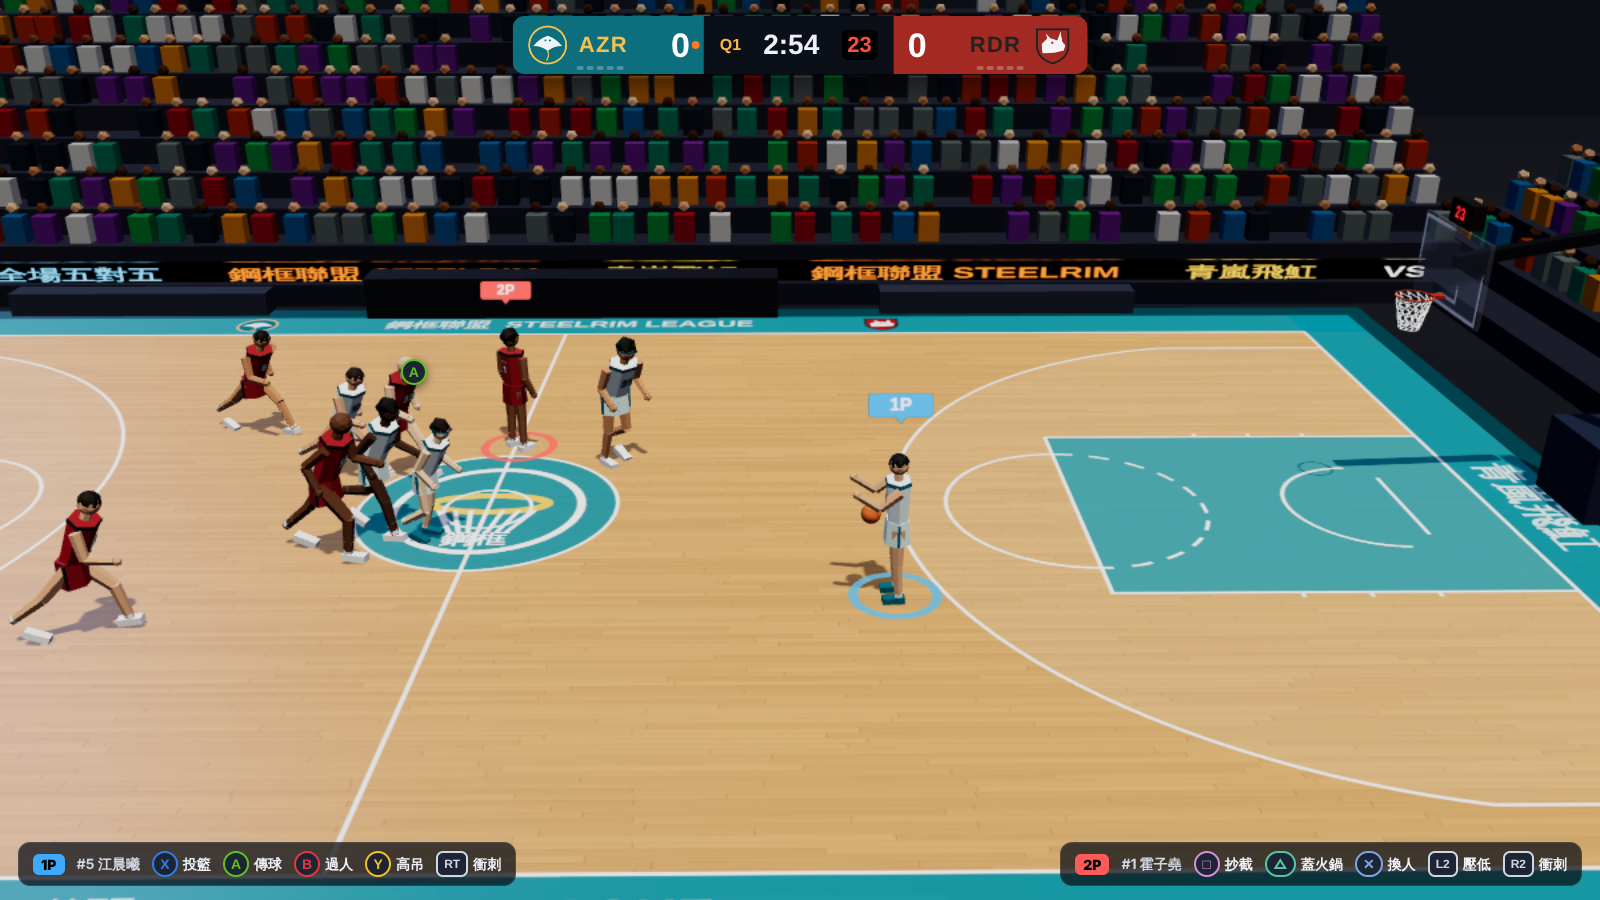
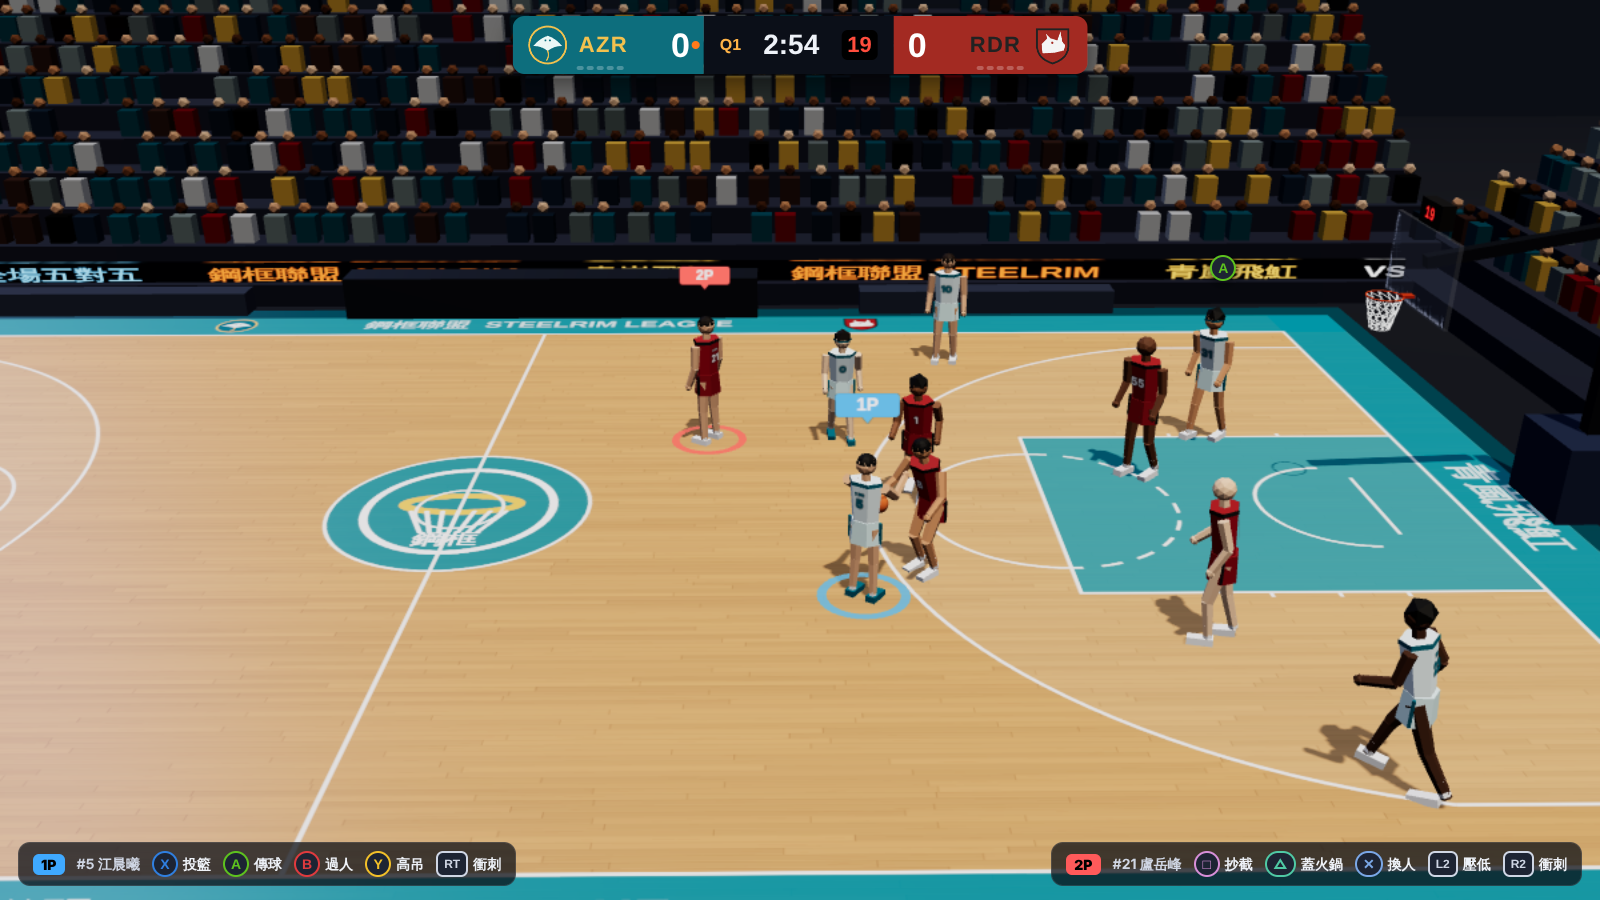
hoops: control tests, shot feedback, nameplates, menu music, test hardening
- node tests for human input flows (timed jump shot, drive layup,
  directional pass, steal, switch, call for ball)
- HUD: make-probability and contest level after each player shot,
  ball-handler nameplate
- synthesized menu music loop (toggleable), demo game no longer plays SFX
- team-colored crowd, CPU-only games auto-continue breaks
- e2e: robust steal check, monitor installed after match start,
  break/results screenshots from real play

Claude-Session: https://claude.ai/code/session_012EswKGQFiWNGuU3kjjfaxu

diff --git a/hoops/src/app.js b/hoops/src/app.js
@@ -9,7 +9,7 @@ import { HUD } from './ui/hud.js';
 import * as S from './ui/screens.js';
 import { emptyInput } from './sim/control.js';
 
-const DEFAULTS = { home: 'owls', away: 'rhinos', difficulty: 'normal', quarterMinutes: 3, autoSub: true, camera: 'broadcast', volume: 0.8 };
+const DEFAULTS = { home: 'owls', away: 'rhinos', difficulty: 'normal', quarterMinutes: 3, autoSub: true, camera: 'broadcast', volume: 0.8, music: true };
 
 export class App {
   constructor() {
@@ -38,7 +38,14 @@ export class App {
     this.errors = [];
 
     this.input.on((type, dev) => this.onDevice(type, dev));
-    const unlock = () => this.audio.unlock();
+    const unlock = () => {
+      const first = !this.audio.ctx;
+      this.audio.unlock();
+      if (first && this.audio.ctx) {
+        this.audio.setCrowd(this.demo ? 0.18 : 0.5);
+        this.updateMusic();
+      }
+    };
     window.addEventListener('pointerdown', unlock);
     window.addEventListener('keydown', unlock);
     this.input.on((type) => { if (type === 'activity') unlock(); });
@@ -112,6 +119,14 @@ export class App {
     }
     this.hud.show(!!this.game && !this.demo && !['title', 'menu', 'teams', 'controllers', 'settings'].includes(name));
     document.body.classList.toggle('menu-open', !!this.screen);
+    this.updateMusic();
+  }
+
+  // 選單播音樂，比賽中不播
+  updateMusic() {
+    const inMenu = this.demo && ['title', 'menu', 'teams', 'controllers', 'settings', 'help'].includes(this.screenName);
+    if (inMenu && this.settings.music) this.audio.startMusic();
+    else this.audio.stopMusic();
   }
 
   closeScreens() {
@@ -157,7 +172,7 @@ export class App {
     humans.forEach((h, i) => { h.label = `${i + 1}P`; });
     this.game = new Game({
       home: getTeam(s.home), away: getTeam(s.away), quarterMinutes: s.quarterMinutes, difficulty: s.difficulty,
-      autoSub: s.autoSub, humans, seed: s.seed ?? ((Math.random() * 1e9) | 0), autoContinue: !!overrides.autoContinue,
+      autoSub: s.autoSub, humans, seed: s.seed ?? ((Math.random() * 1e9) | 0), autoContinue: !!overrides.autoContinue || humans.length === 0,
     });
     this.game.start();
     this.demo = false;
@@ -169,6 +184,7 @@ export class App {
     this.hud.setupMatch(this.game);
     this.closeScreens();
     this.hud.show(true);
+    this.audio.stopMusic();
     this.audio.setCrowd(0.5);
   }
 
@@ -204,7 +220,7 @@ export class App {
     this.paused = false;
     this.pauseReason = null;
     this.startDemo();
-    this.audio.setCrowd(0.25);
+    this.audio.setCrowd(0.18);
     this.go('menu');
   }
 
@@ -297,9 +313,7 @@ export class App {
     const ev = g.events;
     if (!ev.length) return;
     if (this.renderEnabled) this.renderer.onEvents(ev, g);
-    if (!this.demo || this.screenName === 'title' || this.screenName === 'menu') {
-      if (this.timeScale <= 1) this.audio.onEvents(ev, g);
-    }
+    if (!this.demo && this.timeScale <= 1) this.audio.onEvents(ev, g);
     if (!this.demo) {
       this.hud.onEvents(ev, g);
       for (const e of ev) {
@@ -380,6 +394,13 @@ export class App {
         g.gainBall(opp, 'debug');
         if (me.human) me.facing = Math.atan2(opp.pos.z - me.pos.z, opp.pos.x - me.pos.x);
         return opp.name;
+      },
+      // 把玩家控制的球員交還給電腦（測試加速打完比賽用）
+      releaseHumans() {
+        const g = app.game;
+        for (const h of g.humans) { if (h.player) h.player.human = null; h.player = null; }
+        g.humans.length = 0;
+        for (const t of g.teams) t.humans.length = 0;
       },
       humanPlayer(label = '1P') {
         const g = app.game;

diff --git a/hoops/src/audio/audio.js b/hoops/src/audio/audio.js
@@ -264,6 +264,60 @@ export class AudioSystem {
     n.f.frequency.exponentialRampToValueAtTime(320, t + 0.9);
   }
 
+  // ---------- 選單音樂：用合成器即時演奏的循環 ----------
+  startMusic() {
+    if (!this.ctx || this.musicOn) return;
+    const c = this.ctx;
+    this.musicOn = true;
+    if (!this.musicBus) {
+      this.musicBus = c.createGain();
+      this.musicBus.connect(this.master);
+    }
+    this.musicBus.gain.cancelScheduledValues(c.currentTime);
+    this.musicBus.gain.setValueAtTime(0.0001, c.currentTime);
+    this.musicBus.gain.exponentialRampToValueAtTime(0.16, c.currentTime + 1.5);
+    this.step = 0;
+    this.nextNote = c.currentTime + 0.1;
+    this.musicTimer = setInterval(() => this.scheduleMusic(), 60);
+  }
+
+  stopMusic() {
+    if (!this.musicOn) return;
+    this.musicOn = false;
+    clearInterval(this.musicTimer);
+    if (this.ctx && this.musicBus) {
+      const t = this.ctx.currentTime;
+      this.musicBus.gain.cancelScheduledValues(t);
+      this.musicBus.gain.setValueAtTime(this.musicBus.gain.value, t);
+      this.musicBus.gain.exponentialRampToValueAtTime(0.0001, t + 0.6);
+    }
+  }
+
+  scheduleMusic() {
+    const c = this.ctx;
+    const stepDur = 60 / 98 / 4;
+    // A 小調：Am - F - C - G
+    const chords = [[57, 60, 64], [53, 57, 60], [48, 52, 55], [55, 59, 62]];
+    const bassPat = [1, 0, 0, 1, 0, 0, 1, 0, 1, 0, 1, 0, 0, 0, 1, 0];
+    const kickPat = [1, 0, 0, 0, 0, 0, 1, 0, 1, 0, 0, 1, 0, 0, 0, 0];
+    const mtof = (m) => 440 * Math.pow(2, (m - 69) / 12);
+    while (this.nextNote < c.currentTime + 0.25) {
+      const t = this.nextNote;
+      const st = this.step % 16;
+      const bar = Math.floor(this.step / 16) % 4;
+      const ch = chords[bar];
+      const d = this.musicBus;
+      if (kickPat[st]) this.tone(t, 110, 0.18, { gain: 0.5, slide: 42, dest: d });
+      if (st === 4 || st === 12) this.noise(t, 0.12, { freq: 1900, q: 0.8, gain: 0.22, dest: d });
+      if (st % 2 === 0) this.noise(t, 0.03, { type: 'highpass', freq: 7000, q: 0.5, gain: st % 4 === 2 ? 0.1 : 0.05, dest: d });
+      if (bassPat[st]) this.tone(t, mtof(ch[0] - 24 + (st === 10 ? 7 : 0)), stepDur * 1.6, { type: 'sawtooth', gain: 0.12, dest: d });
+      if (st === 0) for (const n of ch) this.tone(t, mtof(n), stepDur * 14, { type: 'triangle', gain: 0.035, attack: 0.2, dest: d });
+      if (st === 7 || st === 15) this.tone(t, mtof(ch[(this.step >> 4) % 3] + 12), stepDur * 1.5, { type: 'square', gain: 0.025, dest: d });
+      this.nextNote += stepDur;
+      this.step++;
+    }
+  }
+
   // 依比賽事件播放
   onEvents(events, game) {
     if (!this.ctx) return;

diff --git a/hoops/src/ui/hud.js b/hoops/src/ui/hud.js
@@ -102,13 +102,24 @@ export class HUD {
         const label = { perfect: '完美出手！', early: '太早', late: '太晚' }[e.timing] || '';
         this.meterLabel.textContent = label;
         this.meterLabel.style.color = e.timing === 'perfect' ? '#3ddc84' : '#ffb347';
-        this.meterTimer = 0.9;
+        this.meterTimer = 1.1;
+        this.showShotInfo(e);
+      } else if (e.type === 'shot' && e.human) {
+        this.showShotInfo(e);
       } else if (e.type === 'ftSetup') {
         this.showTicker(`${e.shooter.name} 罰球 第 ${e.index + 1} 罰／共 ${e.total} 罰`, 2.5);
       } else if (e.type === 'sub') {
         this.showTicker(`${teamFullName(game.teams[e.team].data)} 換人：${e.sub.name} 上場，${e.out.name} 下場`, 2.5);
       }
     }
+  }
+
+  // 玩家出手後顯示命中率與干擾程度，讓人知道能力值、距離、防守的影響
+  showShotInfo(e) {
+    const c = e.contest || 0;
+    const cl = e.kind === 'ft' ? '' : c < 0.2 ? '空檔' : c < 0.45 ? '輕度干擾' : c < 0.75 ? '中度干擾' : '強力干擾';
+    const kind = { jump: e.points === 3 ? '三分' : '跳投', layup: '上籃', dunk: '灌籃', ft: '罰球' }[e.kind] || '';
+    this.showTicker(`${e.player.name} ${kind}・命中率 ${Math.round(e.prob * 100)}%${cl ? '・' + cl : ''}`, 2.4);
   }
 
   update(dt, game, renderer) {
@@ -209,6 +220,13 @@ export class HUD {
         const dx = p.pos.x < 0 ? -110 : 110;
         html += `<div class="marker" style="left:${q.x + dx}px;top:${q.y}px"><span class="hint-box">${h.label} 球往下掉時按 ${glyph(type, 'block')} 跳球</span></div>`;
       }
+    }
+    // 電腦持球者的名牌
+    const hd = game.ball.holder;
+    if (hd && !hd.human && game.phase !== 'gameOver') {
+      const q = renderer.project(hd.pos.x, hd.y + hd.height * 1.2, hd.pos.z);
+      const col = game.teams[hd.team].data.dark.trim;
+      html += `<div class="marker" style="left:${Math.round(q.x)}px;top:${Math.round(q.y)}px"><span class="nameplate" style="border-color:${col}">#${hd.number} ${hd.name}</span></div>`;
     }
     if (this.cache.markers !== html) { this.cache.markers = html; this.markers.innerHTML = html; }
   }

diff --git a/hoops/src/ui/screens.js b/hoops/src/ui/screens.js
@@ -123,6 +123,10 @@ export function mainMenu(app) {
       label: '音量', desc: '音效與觀眾聲的總音量。', values: [0, 0.2, 0.4, 0.6, 0.8, 1], get: () => app.settings.volume,
       set: (v) => { app.settings.volume = v; app.audio.setVolume(v); app.saveSettings(); }, format: (v) => `${Math.round(v * 100)}%`,
     },
+    {
+      label: '選單音樂', desc: '選單畫面的背景音樂（全部用 Web Audio 即時合成）。', values: [true, false], get: () => app.settings.music,
+      set: (v) => { app.settings.music = v; app.saveSettings(); app.updateMusic(); }, format: (v) => (v ? '開' : '關'),
+    },
   ]);
   panel.appendChild(list.el);
   panel.appendChild(list.desc);
@@ -455,7 +459,7 @@ export function boxScoreScreen(app, opts = {}) {
     if (m) root.querySelector('.mvp-wrap').innerHTML = `<div class="mvp">★ 本場最有價值球員：#${m.number} ${esc(m.name)}　${m.stats.pts} 分 ${m.stats.reb} 籃板 ${m.stats.ast} 助攻</div>`;
   }
   const items = final
-    ? [{ label: '再來一場', action: () => app.startMatch() }, { label: '換隊重選', action: () => app.go('teams') }, { label: '回主選單', action: () => app.quitToMenu() }]
+    ? [{ label: '再來一場', action: () => app.startMatch() }, { label: '換隊重選', action: () => { app.startDemo(); app.go('teams'); } }, { label: '回主選單', action: () => app.quitToMenu() }]
     : [{ label: '返回', action: () => app.go(opts.back === 'break' ? 'break' : 'pause') }];
   const list = new MenuList(items);
   list.el.style.flexDirection = 'row';

diff --git a/hoops/src/render/renderer.js b/hoops/src/render/renderer.js
@@ -341,6 +341,24 @@ export class GameRenderer {
     }
     this.cam.x = 0;
     this.lastShot = [null, null];
+    this.recolorCrowd(home, away);
+  }
+
+  // 觀眾衣服顏色：主隊球迷最多
+  recolorCrowd(home, away) {
+    const rng = new RNG(home.key.length * 31 + away.key.length);
+    const neutrals = ['#2c3e50', '#7f8c8d', '#ecf0f1', '#34495e', '#95a5a6', '#5d4037'];
+    const col = new THREE.Color();
+    const cr = this.crowd;
+    for (let i = 0; i < cr.seats.length; i++) {
+      const r = rng.next();
+      let c;
+      if (r < 0.38) c = rng.chance(0.6) ? home.dark.jersey : home.dark.trim;
+      else if (r < 0.55) c = rng.chance(0.6) ? away.dark.jersey : away.dark.trim;
+      else c = neutrals[rng.int(0, neutrals.length - 1)];
+      cr.bodies.setColorAt(i, col.set(c).multiplyScalar(0.38));
+    }
+    cr.bodies.instanceColor.needsUpdate = true;
   }
 
   onEvents(events, game) {

diff --git a/hoops/src/style.css b/hoops/src/style.css
@@ -168,6 +168,7 @@ body.menu-open #overlay-markers, body.menu-open #meter, body.menu-open #banner, 
 #overlay-markers { position: absolute; inset: 0; }
 .marker { position: absolute; transform: translate(-50%, -100%); display: flex; flex-direction: column; align-items: center; gap: 2px; }
 .marker .glyph { box-shadow: 0 3px 10px rgba(0,0,0,0.6); }
+.nameplate { font-size: 13px; font-weight: 800; padding: 2px 8px; border-radius: 6px; background: rgba(8,11,18,0.7); border-left: 3px solid; white-space: nowrap; color: #e8edf6; }
 .marker.off { transform: translate(-50%, -50%); }
 .marker .arrow { width: 0; height: 0; border-left: 10px solid transparent; border-right: 10px solid transparent; border-top: 14px solid var(--p1); }
 .offscreen { position: absolute; padding: 4px 10px; border-radius: 8px; font-weight: 900; font-size: 15px; background: rgba(0,0,0,0.6); border: 2px solid; }

diff --git a/hoops/src/input/input.js b/hoops/src/input/input.js
@@ -93,8 +93,9 @@ export class InputManager {
       buttons[7] = buttons[7] || rtv > 0.3;
       const axes = [gp.axes[0] || 0, gp.axes[1] || 0, gp.axes[2] || 0, gp.axes[3] || 0];
       const state = { buttons, axes, prev: prev ? prev.buttons : buttons.map(() => false), prevAxes: prev ? prev.axes : [0, 0, 0, 0] };
-      if (buttons.some((b, i) => b && !state.prev[i]) || Math.hypot(axes[0], axes[1]) > 0.5) {
+      if (buttons.some((b, i) => b && !state.prev[i])) {
         this.lastActivity = performance.now();
+        this.emitActivity();
       }
       this.padState.set(id, state);
     }

diff --git a/hoops/src/sim/game.js b/hoops/src/sim/game.js
@@ -742,7 +742,7 @@ export class Game {
       this.emit('whistle');
       this.message(`${foul.name} 投籃犯規`, 'foul', foul.team);
     }
-    this.emit('shot', { player: p, kind, points, timing: timing.grade, prob, human: p.human });
+    this.emit('shot', { player: p, kind, points, timing: timing.grade, prob, contest, human: p.human });
     if (kind === 'ft') {
       this.pd.state = 'flight';
       if (b.shot.ftLast) {
